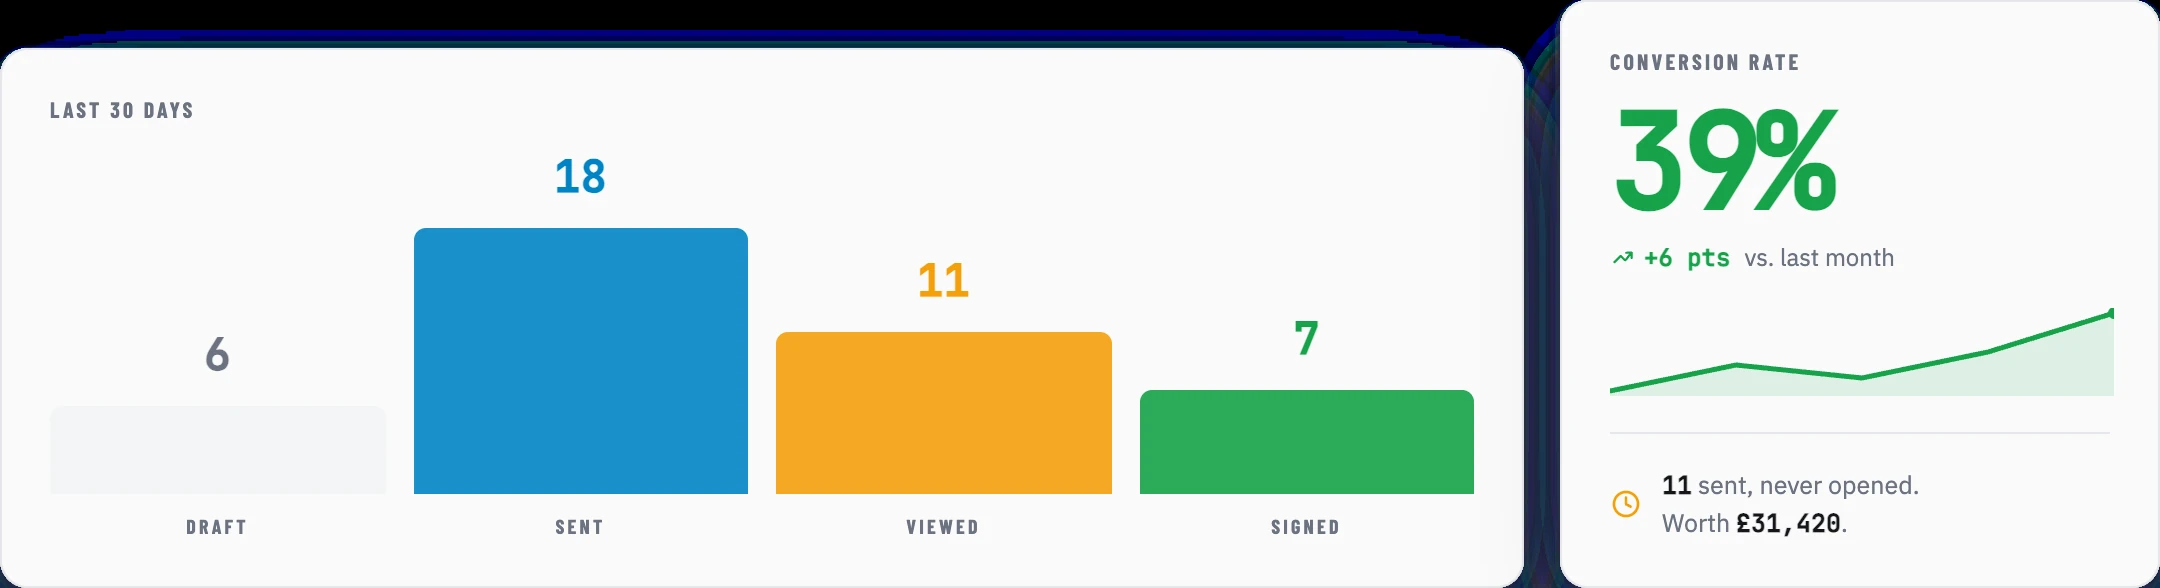
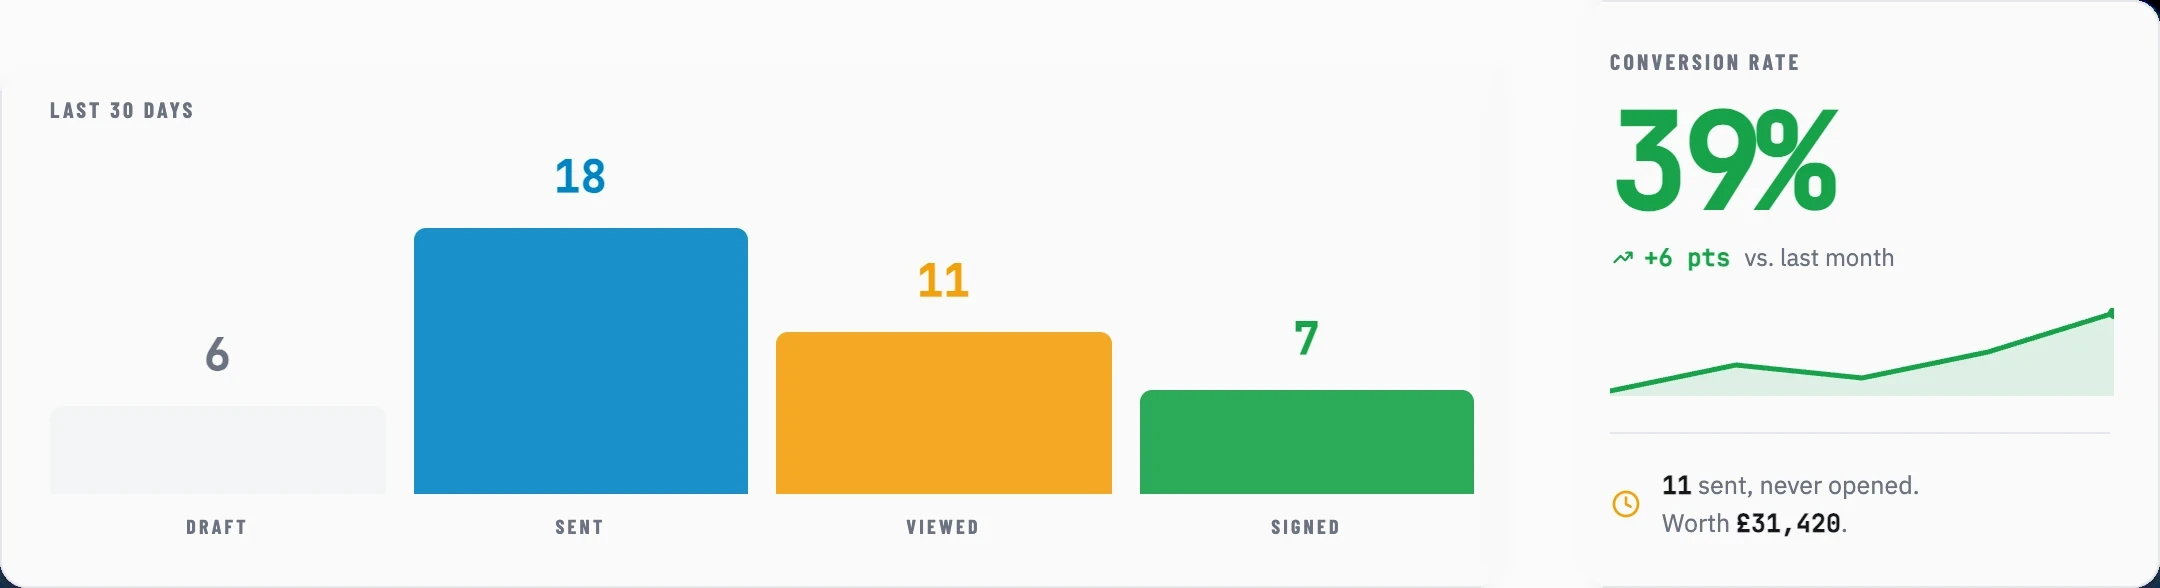
redesign: airier spotlight layout + fix baked-in shadow-flatten bug in source images
The chrome-frame/boxed treatment from the previous pass read as busy, not
premium. Rebuild per direct reference feedback: drop the outer card/border/
chrome entirely and let each product visual (which already carries its own
rounded corners + soft shadow from the source crop) float directly on the
section's textured, glowing backdrop with generous whitespace — matching
the marketing kit's airy composition while staying on the site's own
typography and tokens.

Also root-caused and fixed a real bug in 8 of the 13 source webp images:
converting the original RGBA PNGs to opaque webp with a naive .convert("RGB")
dropped alpha without compositing onto white first, which exposed the raw
color of soft drop-shadow layers as solid black/navy blobs and bars at
panel seams. Rebuilt each affected asset by isolating the large flattened
regions (luminance-based connected-component analysis, sized threshold to
avoid touching real text/badges/buttons) and inpainting them back to the
image's true light background, with edge feathering so the fix is invisible.
Two images lost an already-corrupted CTA button in the process (unrecoverable
from the flattened source); left as clean whitespace rather than a black
smear, consistent with how the surrounding copy already carries that CTA.

Verified with a production build and a real headless-browser pass across
dashboard/jobs/service-contracts — all 13 images confirmed artifact-free
[…]

Changed region(s): [[0.0, 0.0, 0.7444, 1.0]]

diff --git a/src/components/FeatureSpotlight.tsx b/src/components/FeatureSpotlight.tsx
@@ -8,12 +8,12 @@ interface FeatureSpotlightProps {
 }
 
 /**
- * Product spotlight sections — one real product story per section, framed
- * like an actual product surface rather than a pasted screenshot: a
- * left-aligned header row (eyebrow pill + headline + dek, with an optional
- * highlight stat), a textured/glowing backdrop, a ghost index numeral for
- * editorial rhythm, and the visual itself inside a browser-chrome frame so
- * it reads as "this is the real app" rather than marketing art.
+ * Product spotlight sections — one real product story per section. The
+ * visuals are pre-cropped product cards that already carry their own
+ * rounded corners and soft shadow, so they float directly on the section's
+ * textured backdrop with no extra frame around them — an airy, editorial
+ * composition (eyebrow, big headline, dek, optional stat) rather than a
+ * screenshot boxed up in more chrome.
  */
 const FeatureSpotlight: React.FC<FeatureSpotlightProps> = ({ sections }) => {
   return (
@@ -21,8 +21,7 @@ const FeatureSpotlight: React.FC<FeatureSpotlightProps> = ({ sections }) => {
       {sections.map((section, index) => {
         const tinted = index % 2 === 1;
         const accent = index % 2 === 0 ? 'var(--secondary)' : 'var(--primary)';
-        const accentSoft = index % 2 === 0 ? 'rgba(48,79,255,0.08)' : 'rgba(254,216,53,0.14)';
-        const glowSide = index % 2 === 0 ? { right: '-8%', top: '-15%' } : { left: '-8%', bottom: '-15%' };
+        const glowSide = index % 2 === 0 ? { right: '-8%', top: '-18%' } : { left: '-8%', bottom: '-18%' };
         const num = String(index + 1).padStart(2, '0');
 
         return (
@@ -31,7 +30,7 @@ const FeatureSpotlight: React.FC<FeatureSpotlightProps> = ({ sections }) => {
             className={`relative overflow-hidden ${tinted ? 'bg-hero-background' : 'bg-white'}`}
             style={{ padding: 'clamp(3.5rem, 6vw, 6rem) 0' }}
           >
-            {/* dot-grid texture */}
+            {/* soft engineering-grid texture */}
             <div
               className="absolute inset-0 opacity-60"
               style={{
@@ -60,17 +59,14 @@ const FeatureSpotlight: React.FC<FeatureSpotlightProps> = ({ sections }) => {
               </span>
 
               {/* header row: copy left, stat right */}
-              <div className="relative flex flex-col lg:flex-row lg:items-end lg:justify-between gap-8 mb-10">
+              <div className="relative flex flex-col lg:flex-row lg:items-end lg:justify-between gap-8 mb-14">
                 <div className="max-w-[36rem]">
                   {section.eyebrow && (
-                    <div
-                      className="inline-flex items-center gap-2 mb-4 pl-2.5 pr-3.5 py-1 rounded-full border"
-                      style={{ borderColor: accent, background: accentSoft }}
-                    >
-                      <span className="w-1.5 h-1.5 rounded-full" style={{ background: accent }} />
+                    <div className="inline-flex items-center gap-2.5 mb-4">
+                      <span className="w-6 h-[2px]" style={{ background: accent }} />
                       <span
-                        className="font-heading text-[0.75rem] font-bold uppercase tracking-[0.1em]"
-                        style={{ color: 'var(--foreground)' }}
+                        className="font-heading text-[0.8125rem] font-bold uppercase tracking-[0.12em]"
+                        style={{ color: 'var(--secondary)' }}
                       >
                         {section.eyebrow}
                       </span>
@@ -118,37 +114,19 @@ const FeatureSpotlight: React.FC<FeatureSpotlightProps> = ({ sections }) => {
                 )}
               </div>
 
-              {/* product visual, framed like a real app window */}
+              {/* the product visual itself — already a styled card (rounded
+                  corners + soft shadow baked in), so it floats free on the
+                  textured backdrop with generous room around it */}
               {section.imageSrc && (
-                <div className="relative">
-                  <div
-                    className="rounded-2xl border border-border bg-white overflow-hidden"
-                    style={{ boxShadow: '0 30px 70px -24px rgba(23,23,23,0.28), 0 4px 14px -4px rgba(23,23,23,0.08)' }}
-                  >
-                    {/* chrome bar */}
-                    <div
-                      className="flex items-center gap-4 px-4 sm:px-5 py-2.5 border-b border-border"
-                      style={{ background: 'var(--muted)' }}
-                    >
-                      <div className="flex items-center gap-1.5">
-                        <span className="w-2.5 h-2.5 rounded-full" style={{ background: 'var(--border)' }} />
-                        <span className="w-2.5 h-2.5 rounded-full" style={{ background: 'var(--border)' }} />
-                        <span className="w-2.5 h-2.5 rounded-full" style={{ background: 'var(--border)' }} />
-                      </div>
-                      <span className="font-mono text-[0.6875rem] text-muted-foreground tracking-wide truncate">
-                        app.opscel.com — {(section.eyebrow || section.title || '').toLowerCase()}
-                      </span>
-                    </div>
-                    <div className="p-4 sm:p-6" style={{ background: 'var(--muted)' }}>
-                      <Image
-                        src={section.imageSrc}
-                        alt={section.imageAlt || section.title || section.description}
-                        width={section.imageWidth || 1200}
-                        height={section.imageHeight || 800}
-                        className="w-full h-auto rounded-lg border border-border"
-                      />
-                    </div>
-                  </div>
+                <div className="flex justify-center">
+                  <Image
+                    src={section.imageSrc}
+                    alt={section.imageAlt || section.title || section.description}
+                    width={section.imageWidth || 1200}
+                    height={section.imageHeight || 800}
+                    className="w-full h-auto"
+                    style={{ maxWidth: 'min(100%, 60rem)' }}
+                  />
                 </div>
               )}
             </div>
